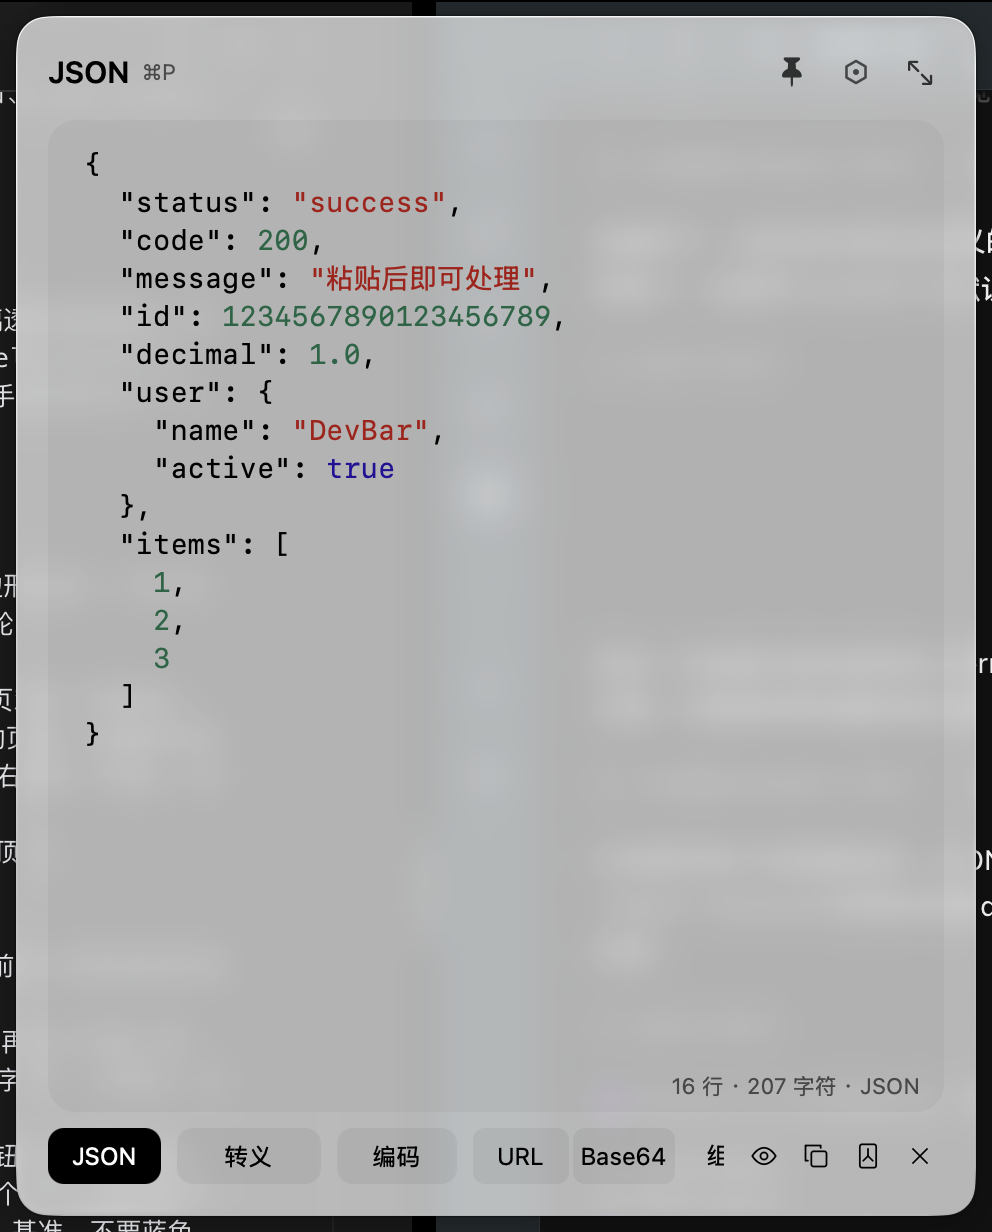
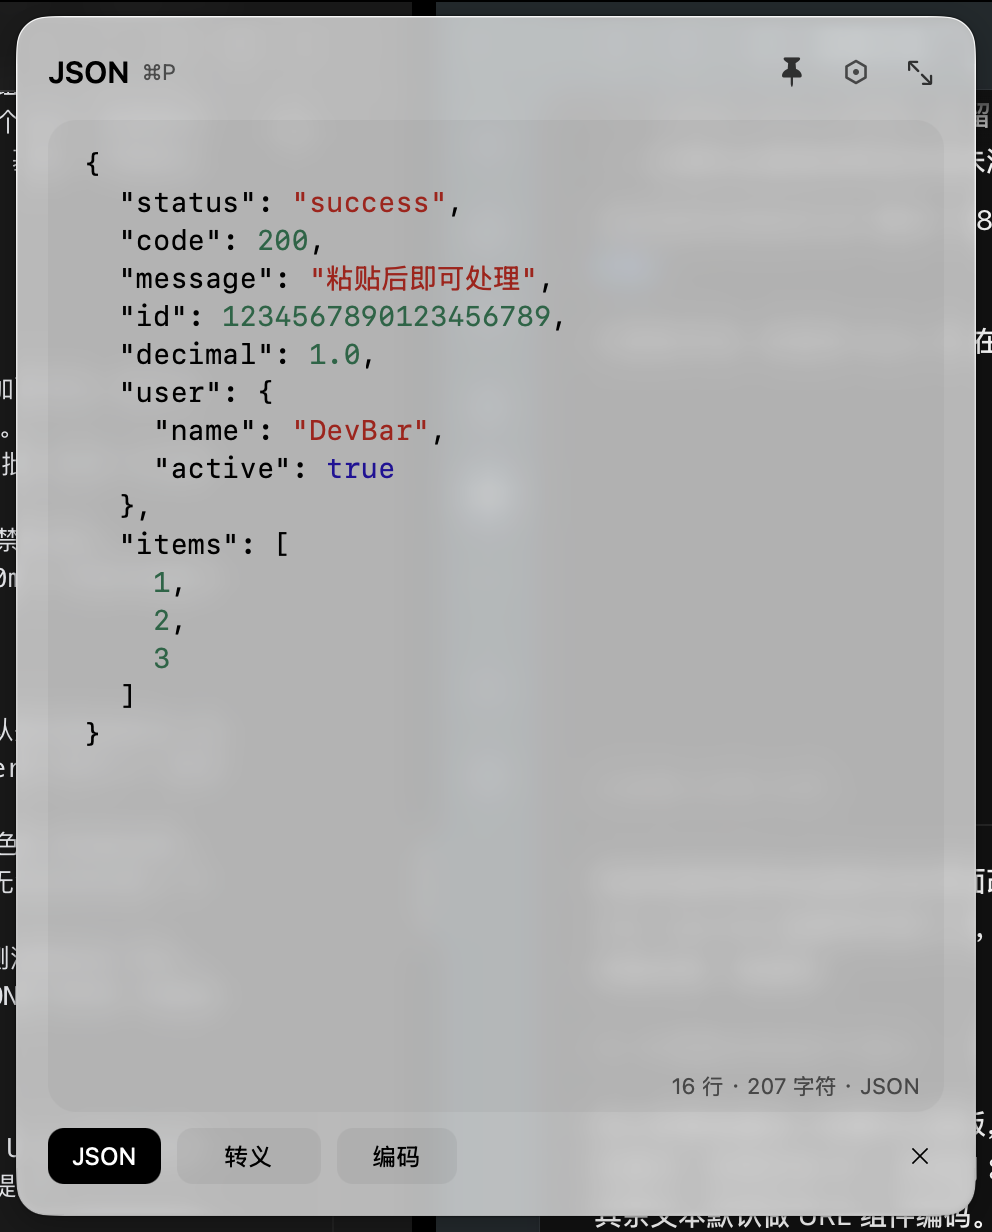
T3.10 验收：补充扁平拖入面板浅深主题及 JSON 精简截图

diff --git a/docs/验证记录/R8-回报.md b/docs/验证记录/R8-回报.md
@@ -1,5 +1,17 @@
 R8、Codex、分支 codex/r8。代码提交号及逐文件清单见文末；本记录随最后验收提交提交。未合并进 main，未开始 R9。
 
+追加实现提交：4f6bec5（拖入样式）、5ea89cb（JSON 精简）；追加截图与本记录随验收提交。
+
+## 需求方追加：拖入面板与 JSON 操作精简（覆盖下文旧实现描述）
+
+- 拖到菜单栏图标时切换为 400×144 的扁平接收面板，仅显示 DevBar 标题和 JSON / Markdown 两区；不展示原页面标题、钉住、设置或放大控件。退出拖入恢复原页尺寸，新增模型测试。
+- 两区在浅、深主题均使用 panel.control 语义底色；选中只叠加 60% 的同一半透明底色与轻细边框，文字始终 text.primary，不再使用黑白反转。浅/深运行时样张为 drop-light-400x144.png、drop-dark-400x144.png，覆盖旧 480×600 拖入图。
+- JSON 底部仅 JSON、转义/反转义、编码/解码、清空。删除 URL/Base64 分段、完整 URL 选择、预览/复制/长图图标；预览走 CmdE，复制仍可使用系统 CmdC。
+- 编解码不展示格式选择，保守识别确定的可读 Base64 或 URL 编码执行解码；其他文本默认 URL 组件编码。没有自动执行转换；正文事务仍可撤销。
+- JSON 长图入口及页面导出方法删除；共享导出能力留给 R9 Markdown。更新 Debug/浏览器验收入口，避免使用已删除的按钮。
+- check.sh 退出码 0，89 项 Swift / 334 项 Web；打包签名通过。浏览器精简操作、Base64 自动识别、URL 转换、CmdE 与数值无损回归通过；2MB 预览单独运行 247.8ms。并行打包/截图时有一次 316.9ms 超预算，保留此性能波动记录，不以单次快值保证负载下表现。
+- 之前报告的物理拖拽与真实输入框手工项目仍待需求方验证。
+
 ## 做了什么
 
 - T1.2 / T3.1：四页骨架，删除编码页并迁移记忆；设置六边形模板图标、统一分组与返回。主题入口集中到设置，分段为「自动 / 浅色 / 深色」。页面内不再展示主题切换。
@@ -317,4 +329,23 @@ Sources/DevBar/Web/FileDropWebView.swift
 Sources/DevBar/Web/WebHost.swift
 Sources/DevBarCore/FileDrop/FileRoute.swift
 Tests/DevBarCoreTests/FileRouteTests.swift
+```
+
+### 追加 4f6bec5
+
+```text
+Sources/DevBar/App/FileDrop.swift
+Sources/DevBar/App/PanelController.swift
+Sources/DevBar/App/PanelModel.swift
+Sources/DevBar/App/PanelView.swift
+Sources/DevBar/Strings.swift
+Tests/DevBarTests/PanelNavigationTests.swift
+```
+
+### 追加 5ea89cb
+
+```text
+Sources/DevBar/Debug/R8UICheck.swift
+Web/dev/r8-check.mjs
+Web/src/tools/json/page.ts
 ```
